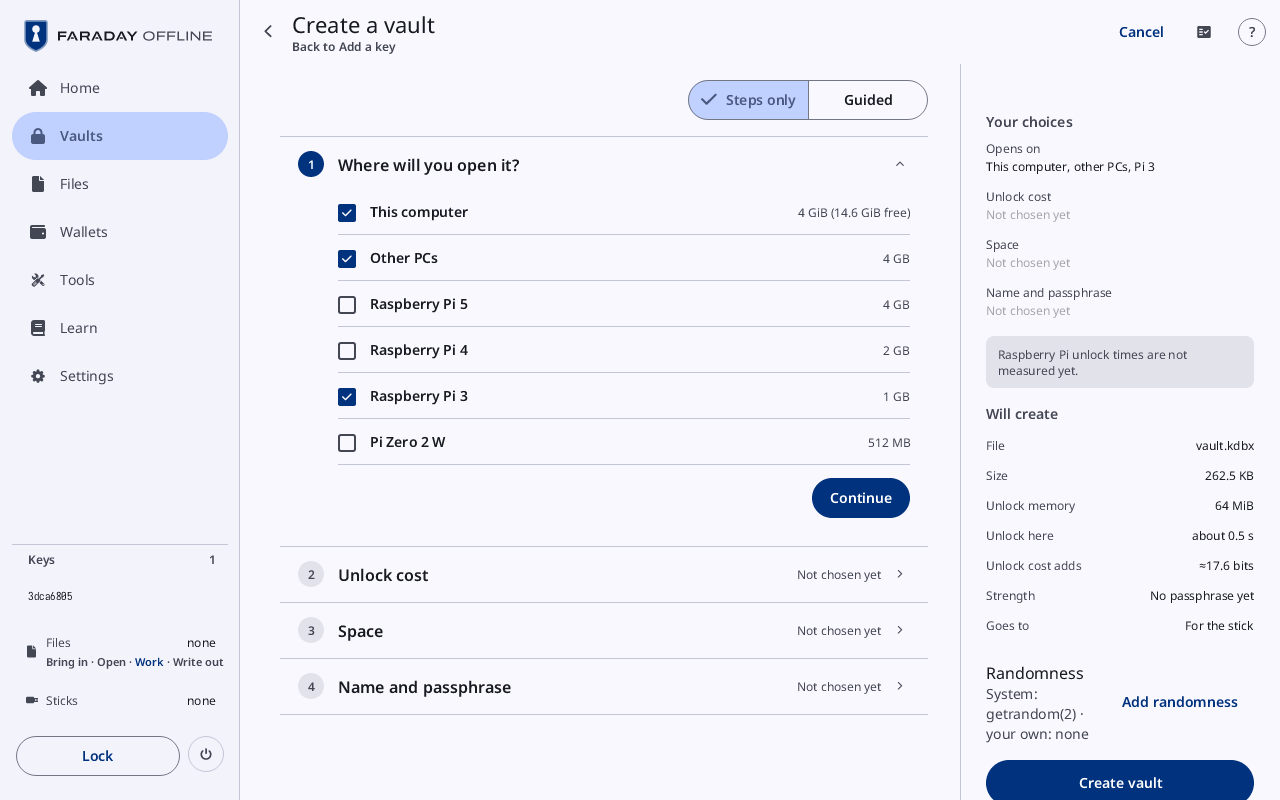
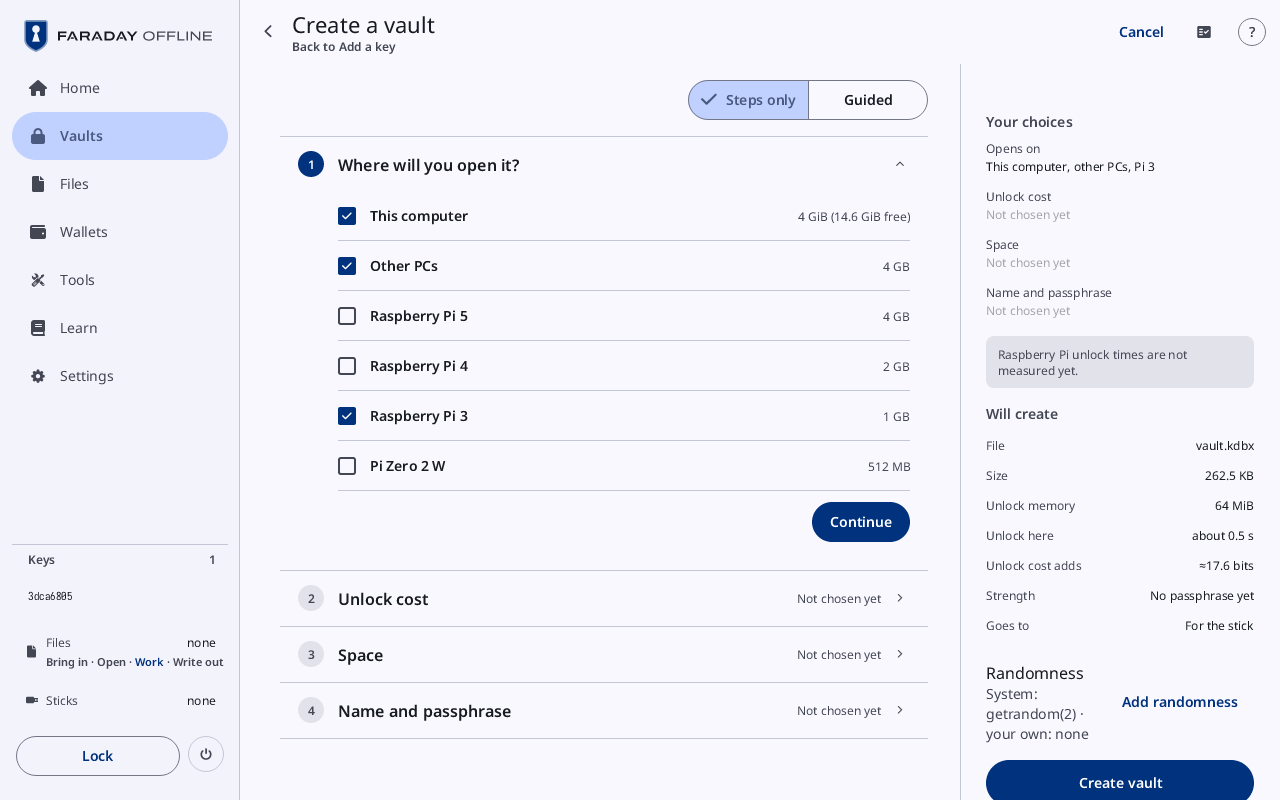
The machine rows of Create's Where will you open it? and of a vault's Memory dialog are each a full touch target, 48 units tall where they were 40, so they can be pressed reliably on a touch screen. The guide's picture of the Create step is drawn again, and the touch target and layout number counts 
Material: Dialogs (basic dialog), Checkbox
Reviewed: repo.tests-kept
Reviewed: repo.tests-user-facing
Reviewed: crypto.kept-values
Reviewed: crypto.costs-said
Reviewed: keys.secret-files
Reviewed: keys.child-vault-only
Reviewed: speed.late-flow-timed
Reviewed: speed.shown-secret-held
Reviewed: structure.areas-private
Reviewed: structure.vault-together
Reviewed: design.left-out
Reviewed: guide.pictures
Reviewed: tree.image-metadata
Claude-Session: https://claude.ai/code/session_01Nu65ePpmBUA6PSumLtdRSx

diff --git a/faraday/faraday-core/src/vault/screen.rs b/faraday/faraday-core/src/vault/screen.rs
@@ -975,20 +975,20 @@ pub(super) fn machine_rows(
     acts: (Action, fn(usize) -> V),
 ) -> f32 {
     let (muted, ink) = (Role::OnSurfaceVariant, Role::OnSurface);
+    let (row, tick) = (tokens::TOUCH, tokens::ICON_GLYPH_BUTTON);
+    let one = |ui: &mut Ui, cy: f32, on: bool, label: &str, side: &str, act: Action| {
+        ui.checkbox(x, cy + (row - tick) / 2.0, on, true);
+        ui.text_mid_as((x + 32.0, cy, row), LABEL_L, ink, label);
+        ui.text_right_as((x + w, cy, row), BODY_S, muted, side);
+        ui.press_box(x, cy, w, row, act);
+        ui.rule(x, cy + row, w, Role::OutlineVariant);
+    };
     let mut cy = y;
-    ui.checkbox(x, cy + 12.0, ticks.0, true);
-    ui.text_mid_as((x + 32.0, cy, 40.0), LABEL_L, ink, EN.vault_this_computer);
-    ui.text_right_as((x + w, cy, 40.0), BODY_S, muted, here);
-    ui.press_box(x, cy, w, 40.0, acts.0);
-    ui.rule(x, cy + 42.0, w, Role::OutlineVariant);
-    cy += 46.0;
+    one(ui, cy, ticks.0, EN.vault_this_computer, here, acts.0);
+    cy += row + 2.0;
     for (k, m) in MACHINES.iter().enumerate() {
-        ui.checkbox(x, cy + 12.0, ticks.1[k], true);
-        ui.text_mid_as((x + 32.0, cy, 40.0), LABEL_L, ink, m.0);
-        ui.text_right_as((x + w, cy, 40.0), BODY_S, muted, m.2);
-        ui.press_box(x, cy, w, 40.0, va(acts.1(k)));
-        ui.rule(x, cy + 42.0, w, Role::OutlineVariant);
-        cy += 46.0;
+        one(ui, cy, ticks.1[k], m.0, m.2, va(acts.1(k)));
+        cy += row + 2.0;
     }
     cy
 }
